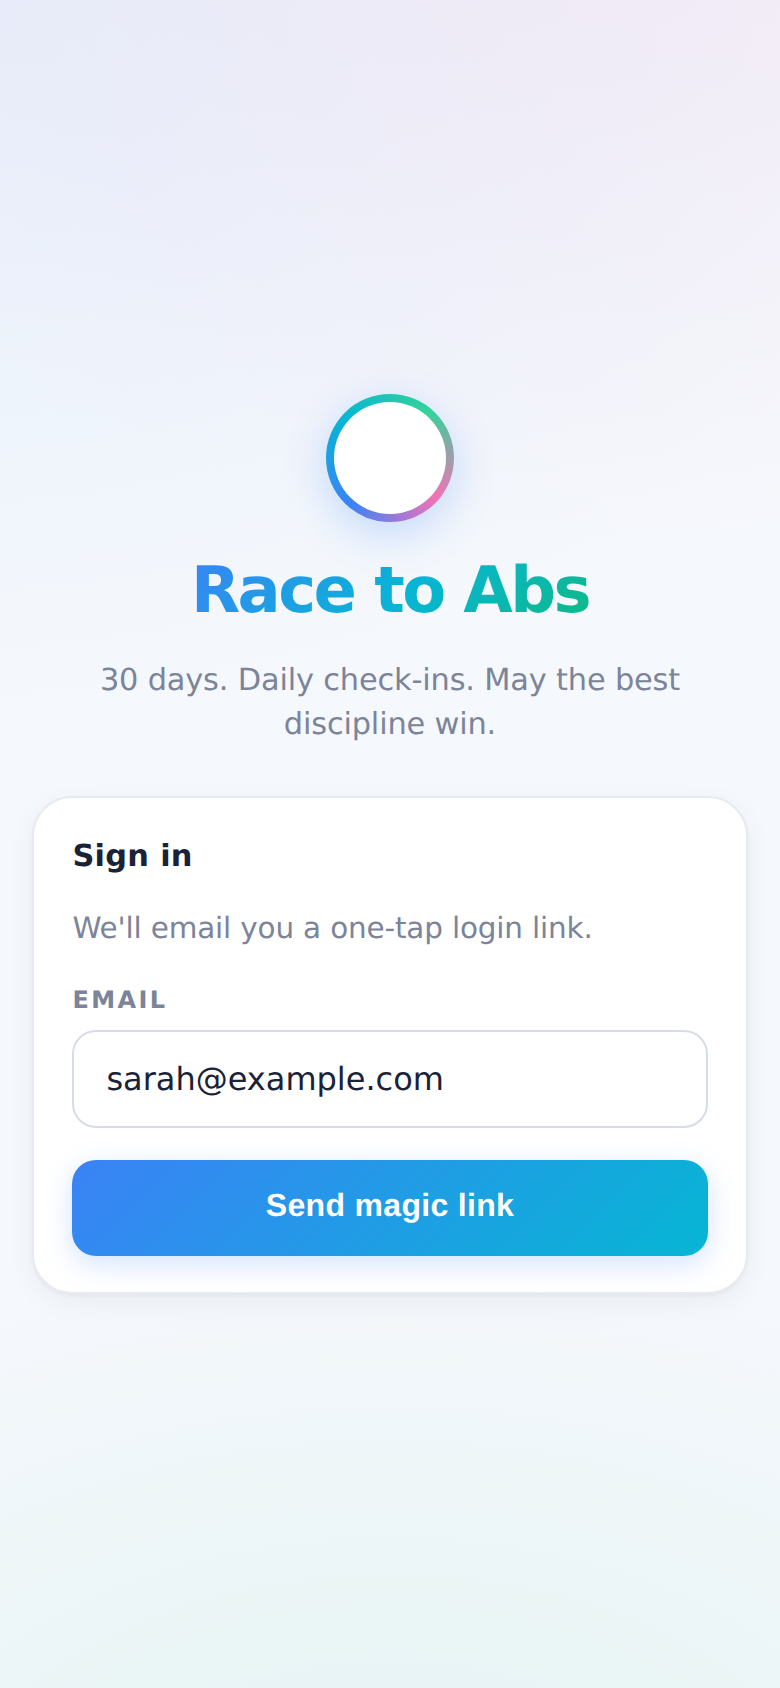
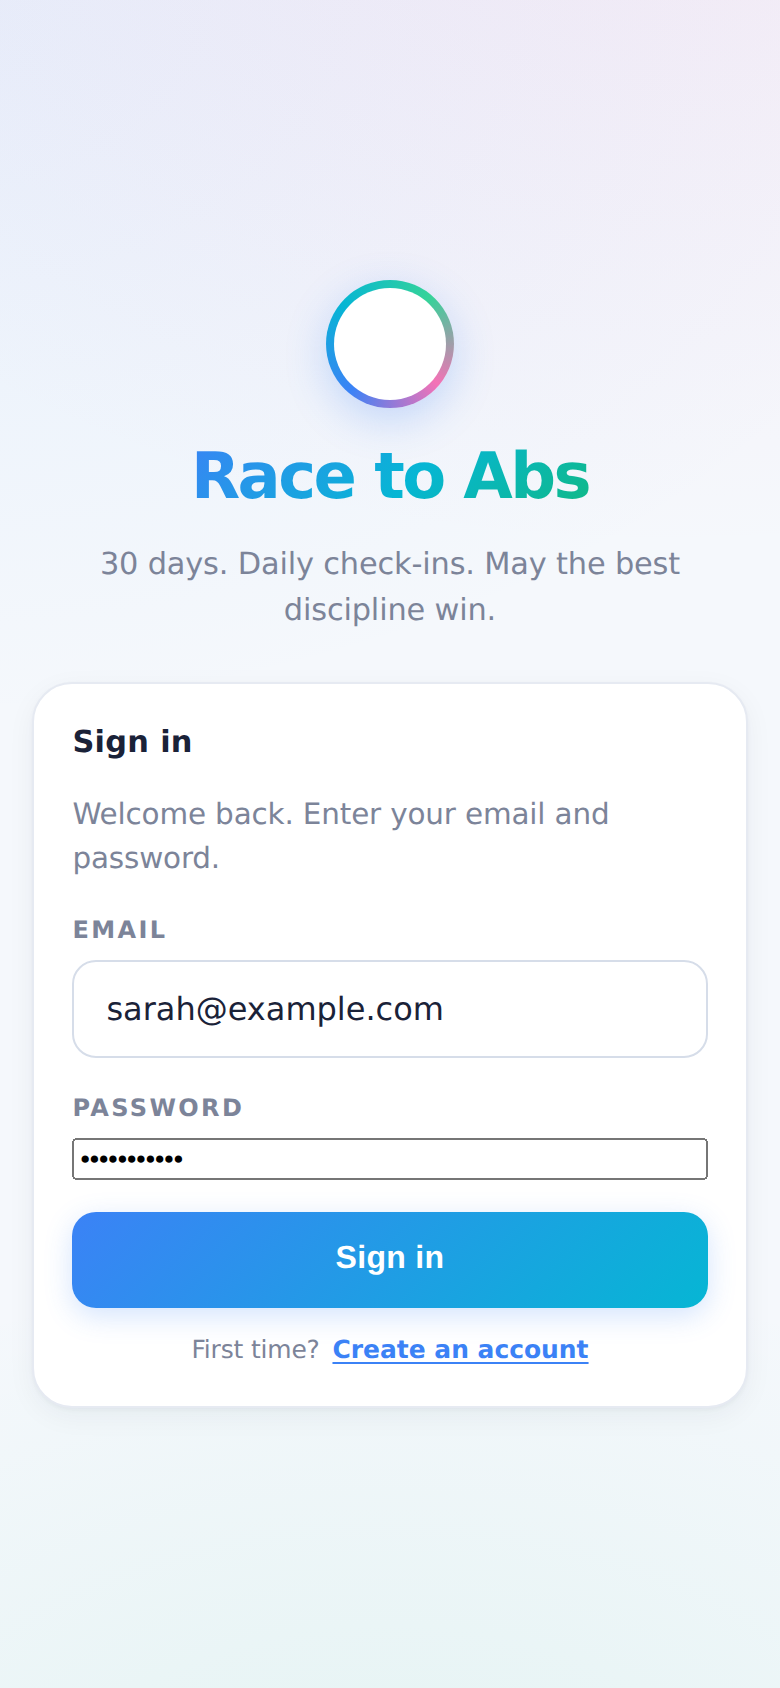
Switch from magic-link to email + password (no email confirmation)
- Replace single email field + signInWithOtp with email + password
  using signInWithPassword and signUp
- Toggle between 'Sign in' and 'Create an account' modes via a small
  link below the submit button
- Friendly error messages: wrong password vs. account-already-exists
- README now tells admin to turn off 'Confirm email' in Supabase auth
  so sign-ups create a session immediately

diff --git a/app.js b/app.js
@@ -41,6 +41,9 @@ document.addEventListener("DOMContentLoaded", () => {
 
   // Wire up events that exist regardless of view
   $("#signin-form")?.addEventListener("submit", handleSignIn);
+  $("#auth-toggle-btn")?.addEventListener("click", () => {
+    setAuthMode(authMode === "signin" ? "signup" : "signin");
+  });
   $("#profile-form")?.addEventListener("submit", handleCreateProfile);
   $("#signout-btn")?.addEventListener("click", handleSignOut);
   $("#save-entry")?.addEventListener("click", handleSaveEntry);
@@ -116,21 +119,54 @@ async function loadAllData() {
 }
 
 // ─── Auth handlers ────────────────────────────────────────────────────────
+let authMode = "signin"; // "signin" | "signup"
+
+function setAuthMode(mode) {
+  authMode = mode;
+  const isSignup = mode === "signup";
+  $("#auth-title").textContent      = isSignup ? "Create account" : "Sign in";
+  $("#auth-sub").textContent        = isSignup
+    ? "Pick a password. No email confirmation, you're in immediately."
+    : "Welcome back. Enter your email and password.";
+  $("#auth-submit").textContent     = isSignup ? "Create account" : "Sign in";
+  $("#auth-toggle-text").textContent = isSignup ? "Already have an account?" : "First time?";
+  $("#auth-toggle-btn").textContent  = isSignup ? "Sign in instead" : "Create an account";
+  $("#password").setAttribute("autocomplete", isSignup ? "new-password" : "current-password");
+  $("#signin-status").textContent = "";
+}
+
 async function handleSignIn(e) {
   e.preventDefault();
   const email = $("#email").value.trim();
-  if (!email) return;
+  const password = $("#password").value;
+  if (!email || !password) return;
   const status = $("#signin-status");
-  status.textContent = "Sending…";
-  const { error } = await state.client.auth.signInWithOtp({
-    email,
-    options: { emailRedirectTo: window.location.origin + window.location.pathname },
-  });
+  const submit = $("#auth-submit");
+  submit.disabled = true;
+  status.textContent = authMode === "signup" ? "Creating account…" : "Signing in…";
+
+  const fn = authMode === "signup" ? "signUp" : "signInWithPassword";
+  const { data, error } = await state.client.auth[fn]({ email, password });
+  submit.disabled = false;
+
   if (error) {
-    status.textContent = "Couldn't send link: " + error.message;
+    if (authMode === "signin" && /invalid login/i.test(error.message)) {
+      status.textContent = "Email and password don't match. New here? Tap 'Create an account'.";
+    } else if (authMode === "signup" && /already registered|already.*exists/i.test(error.message)) {
+      status.textContent = "That email's already in. Switch to Sign in.";
+    } else {
+      status.textContent = error.message;
+    }
     return;
   }
-  status.textContent = "Check your email for a sign-in link.";
+
+  // If sign-up requires confirmation (because the toggle wasn't disabled in
+  // Supabase), `data.session` is null. Tell the user.
+  if (authMode === "signup" && !data?.session) {
+    status.textContent = "Check your inbox to confirm your email, then come back.";
+    return;
+  }
+  // applySession runs via onAuthStateChange and switches the view.
 }
 
 async function handleSignOut() {

diff --git a/index.html b/index.html
@@ -46,14 +46,22 @@
       <p class="tagline">30 days. Daily check-ins. May the best discipline win.</p>
     </div>
     <div class="card narrow">
-      <h2>Sign in</h2>
-      <p class="muted">We'll email you a one-tap login link.</p>
+      <h2 id="auth-title">Sign in</h2>
+      <p class="muted" id="auth-sub">Welcome back. Enter your email and password.</p>
       <form id="signin-form">
         <div class="field">
           <label for="email">Email</label>
           <input type="email" id="email" name="email" autocomplete="email" required placeholder="you@email.com" />
         </div>
-        <button type="submit" class="btn-primary">Send magic link</button>
+        <div class="field">
+          <label for="password">Password</label>
+          <input type="password" id="password" name="password" autocomplete="current-password" minlength="6" required placeholder="At least 6 characters" />
+        </div>
+        <button type="submit" class="btn-primary" id="auth-submit">Sign in</button>
+        <p class="auth-toggle muted small">
+          <span id="auth-toggle-text">First time?</span>
+          <button type="button" id="auth-toggle-btn" class="link">Create an account</button>
+        </p>
         <p id="signin-status" class="muted"></p>
       </form>
     </div>

diff --git a/preview/signin.html b/preview/signin.html
@@ -15,13 +15,21 @@
     </div>
     <div class="card narrow">
       <h2>Sign in</h2>
-      <p class="muted">We'll email you a one-tap login link.</p>
+      <p class="muted">Welcome back. Enter your email and password.</p>
       <form>
         <div class="field">
           <label for="email">Email</label>
           <input type="email" id="email" placeholder="you@email.com" value="sarah@example.com" />
         </div>
-        <button type="button" class="btn-primary">Send magic link</button>
+        <div class="field">
+          <label for="password">Password</label>
+          <input type="password" id="password" placeholder="At least 6 characters" value="password123" />
+        </div>
+        <button type="button" class="btn-primary">Sign in</button>
+        <p class="auth-toggle muted small">
+          <span>First time?</span>
+          <button type="button" class="link">Create an account</button>
+        </p>
       </form>
     </div>
   </div>

diff --git a/styles.css b/styles.css
@@ -281,6 +281,27 @@ input::placeholder { color: var(--muted-2); }
 }
 .btn-ghost:hover { background: var(--surface-3); border-color: var(--border-2); }
 
+button.link {
+  background: transparent;
+  border: none;
+  color: var(--blue-1);
+  cursor: pointer;
+  padding: 0;
+  font: inherit;
+  font-weight: 600;
+  text-decoration: underline;
+  text-underline-offset: 2px;
+}
+button.link:hover { color: var(--teal-1); }
+
+.auth-toggle {
+  display: flex;
+  gap: 0.4rem;
+  align-items: center;
+  justify-content: center;
+  margin: 0.75rem 0 0;
+}
+
 .btn-pill {
   background: var(--grad-blue);
   color: #ffffff;

diff --git a/README.md b/README.md
@@ -85,8 +85,13 @@ To rebalance, edit the `QUESTIONS` array at the top of `app.js`.
 ## How users join
 
 1. Visit the site on their iPhone.
-2. Enter their email → click the magic link from the inbox.
-3. Pick a display name. That's it — they're in.
+2. Tap **Create an account** → enter email + password → tap **Create account**. They're signed in immediately (no email confirmation).
+3. Pick a display name + their custom goal. That's it — they're in.
+
+> **Supabase setup tip:** disable email confirmation under
+> **Authentication → Providers → Email → "Confirm email"** so new users
+> don't get a "check your email" speed bump. With it off, sign-ups
+> create a session right away.
 
 ### Installing on iPhone (Add to Home Screen)
 
